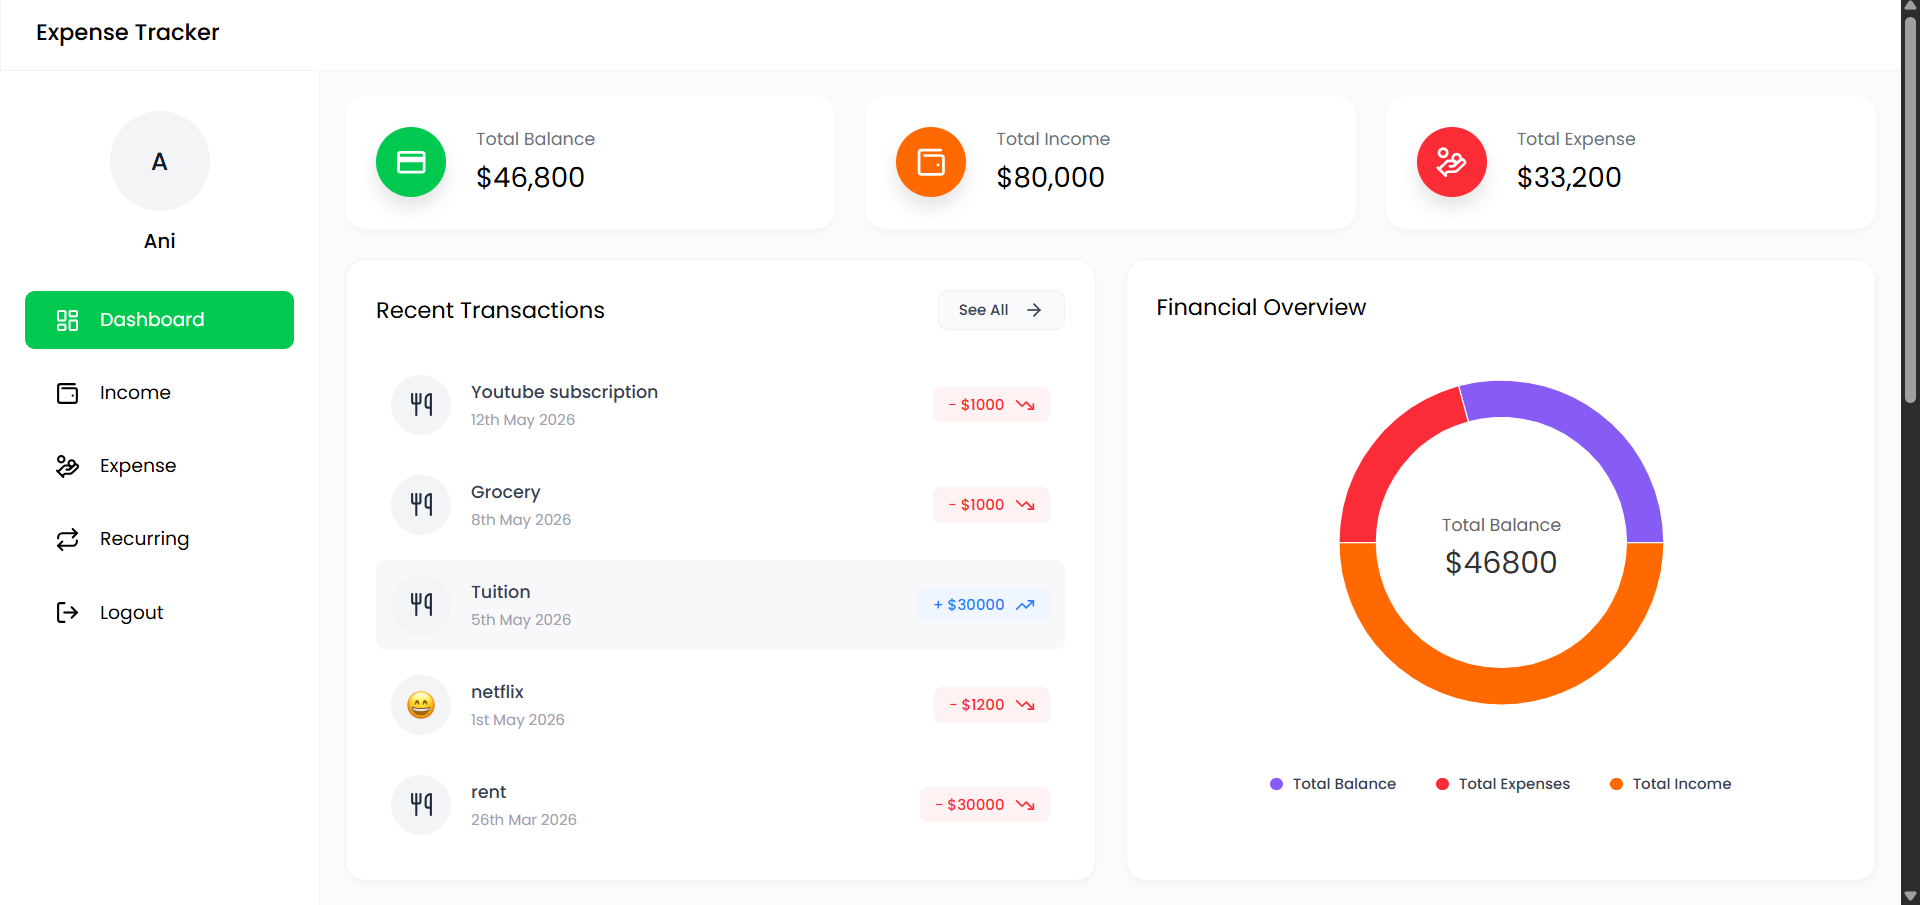
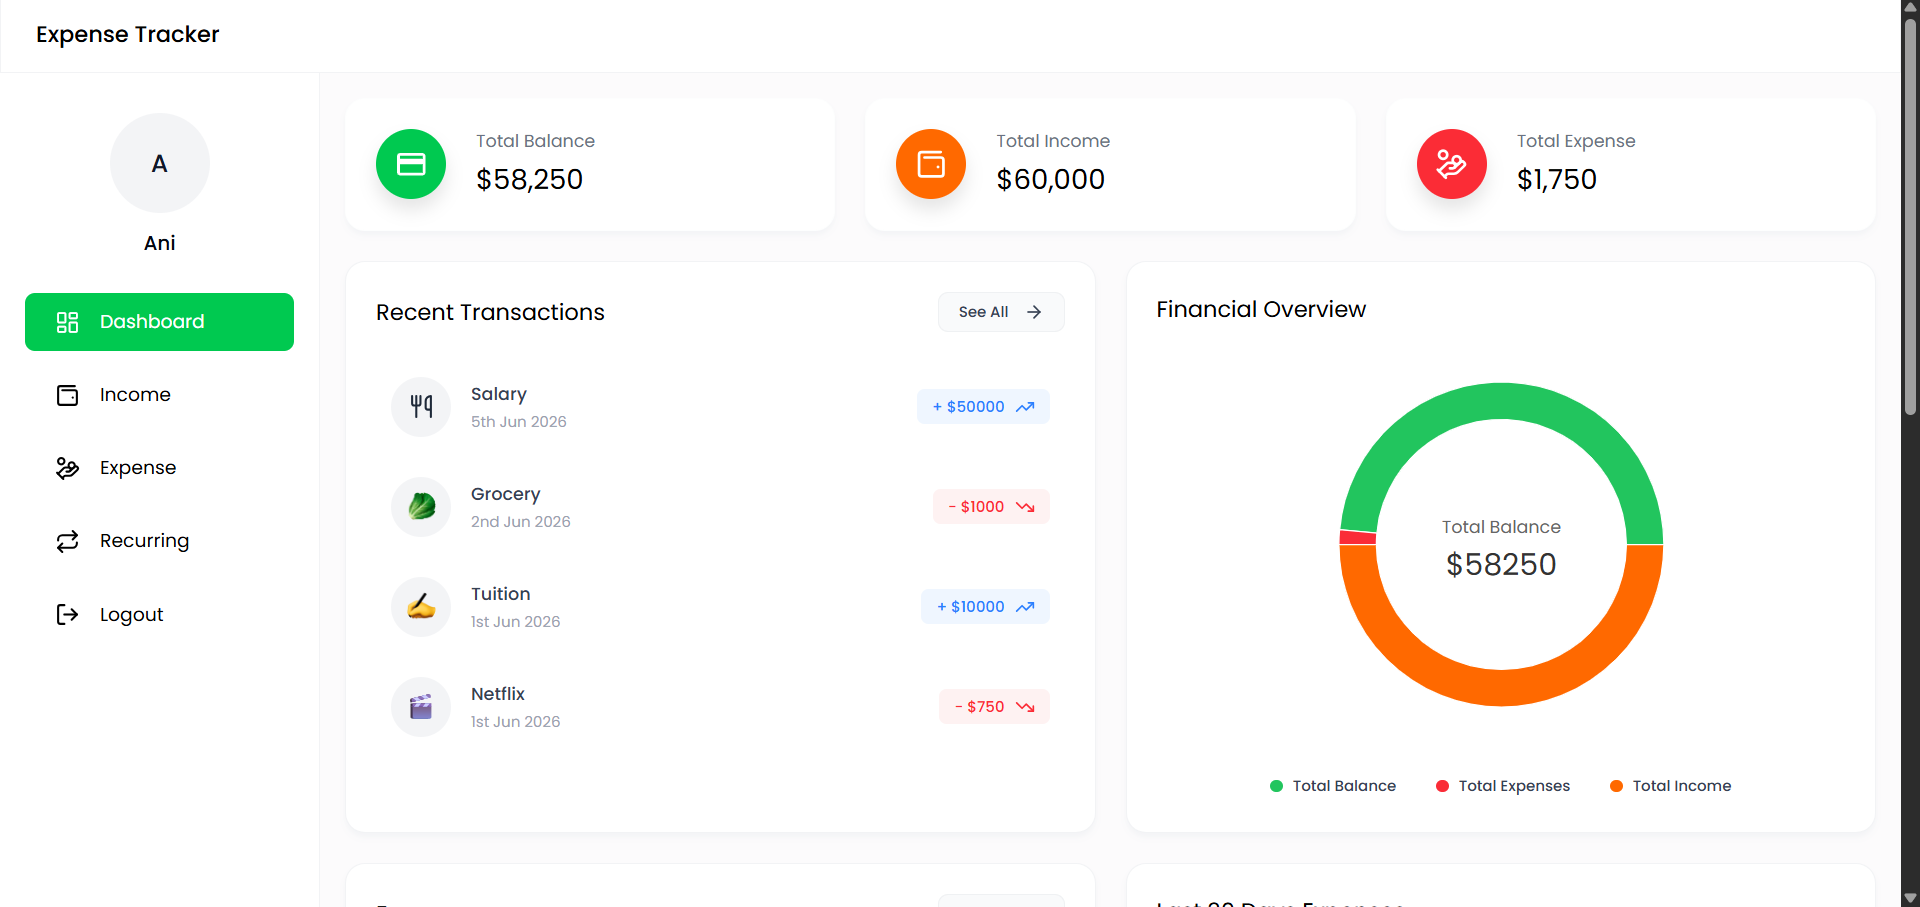
feat: implement CRUD and Excel export controllers for income and expenses, define API paths, and update dashboard overview component.

diff --git a/backend/controllers/recurringController.js b/backend/controllers/recurringController.js
@@ -82,25 +82,25 @@ exports.deleteRecurring = async (req, res) => {
 };
 
 
-exports.processDueRecurring = async (req, res) => {
-  try {
-    const now = new Date();
-    const dueItems = await RecurringTransaction.find({
-      userId: req.user._id,
-      isActive: true,
-      nextDueDate: { $lte: now },
-    });
+const processUserRecurring = async (userId) => {
+  const now = new Date();
+  const dueItems = await RecurringTransaction.find({
+    userId,
+    isActive: true,
+    nextDueDate: { $lte: now },
+  });
 
-    const created = [];
+  const created = [];
 
-    for (const item of dueItems) {
+  for (const item of dueItems) {
+    while (item.nextDueDate <= now) {
       if (item.type === "expense") {
         const entry = await Expense.create({
           userId: item.userId,
           icon: item.icon,
           category: item.category || item.title,
           amount: item.amount,
-          date: item.nextDueDate,
+          date: new Date(item.nextDueDate),
         });
         created.push({ type: "expense", entry });
       } else {
@@ -109,17 +109,25 @@ exports.processDueRecurring = async (req, res) => {
           icon: item.icon,
           source: item.source || item.title,
           amount: item.amount,
-          date: item.nextDueDate,
+          date: new Date(item.nextDueDate),
         });
         created.push({ type: "income", entry });
       }
 
-
       item.lastProcessed = item.nextDueDate;
       item.nextDueDate = computeNextDue(item.nextDueDate, item.frequency);
-      await item.save();
     }
+    await item.save();
+  }
 
+  return created;
+};
+
+exports.processUserRecurring = processUserRecurring;
+
+exports.processDueRecurring = async (req, res) => {
+  try {
+    const created = await processUserRecurring(req.user._id);
     res.status(200).json({ processed: created.length, entries: created });
   } catch (error) {
     console.error("PROCESS RECURRING ERROR:", error);

diff --git a/frontend/expense-tracker/src/components/Dashboard/FinanceOverview.jsx b/frontend/expense-tracker/src/components/Dashboard/FinanceOverview.jsx
@@ -1,25 +1,27 @@
-import React from 'react'
-import CustomPieChart from '../Charts/CustomPieChart';
+import React from "react";
+import CustomPieChart from "../Charts/CustomPieChart";
 
-const COLORS=["#875CF5", "#FA2C37", "#FF6900"];
+const COLORS = ["#22C55E", "#FA2C37", "#FF6900"];
 const FinanceOverview = ({ totalBalance, totalIncome, totalExpense }) => {
-    const balanceData=[
-        {name: "Total Balance", amount: totalBalance},
-        {name: "Total Expenses", amount: totalExpense},
-        {name: "Total Income", amount: totalIncome},
-    ];
-  return <div className='card'>
-    <div className='flex items-center justify-between'>
-        <h5 className='text-lg'>Financial Overview</h5>
-    </div>
-    <CustomPieChart
+  const balanceData = [
+    { name: "Total Balance", amount: totalBalance },
+    { name: "Total Expenses", amount: totalExpense },
+    { name: "Total Income", amount: totalIncome },
+  ];
+  return (
+    <div className="card">
+      <div className="flex items-center justify-between">
+        <h5 className="text-lg">Financial Overview</h5>
+      </div>
+      <CustomPieChart
         data={balanceData}
         label="Total Balance"
         totalAmount={`$${totalBalance}`}
         colors={COLORS}
         showTextAnchor
-    />
-  </div>
-}
+      />
+    </div>
+  );
+};
 
-export default FinanceOverview
+export default FinanceOverview;

diff --git a/backend/controllers/dashboardController.js b/backend/controllers/dashboardController.js
@@ -1,9 +1,12 @@
 const Income=require("../models/Income");
 const Expense=require("../models/Expense");
 const { isValidObjectId, Types }=require("mongoose");
+const { processUserRecurring } = require("./recurringController");
+
 exports.getDashboardData=async (req, res)=> {
     try {
         const userId=req.user.id;
+        await processUserRecurring(userId);
         const userObjectId=new Types.ObjectId(String(userId)); 
         const totalIncome=await Income.aggregate([
             { $match: { userId: userObjectId }},

diff --git a/backend/controllers/expenseController.js b/backend/controllers/expenseController.js
@@ -1,5 +1,6 @@
 const xlsx = require("xlsx");
 const Expense = require("../models/Expense");
+const { processUserRecurring } = require("./recurringController");
 
 exports.addExpense = async (req, res) => {
   try {
@@ -26,6 +27,7 @@ exports.addExpense = async (req, res) => {
 
 exports.getAllExpense = async (req, res) => {
   try {
+    await processUserRecurring(req.user._id);
     const { search, category, startDate, endDate, minAmount, maxAmount } = req.query;
     const filter = { userId: req.user._id };
 

diff --git a/backend/controllers/incomeController.js b/backend/controllers/incomeController.js
@@ -1,5 +1,6 @@
 const xlsx = require("xlsx");
 const Income = require("../models/Income");
+const { processUserRecurring } = require("./recurringController");
 
 exports.addIncome = async (req, res) => {
   try {
@@ -26,6 +27,7 @@ exports.addIncome = async (req, res) => {
 
 exports.getAllIncome = async (req, res) => {
   try {
+    await processUserRecurring(req.user._id);
     const { search, startDate, endDate, minAmount, maxAmount } = req.query;
     const filter = { userId: req.user._id };
 

diff --git a/README.md b/README.md
@@ -7,13 +7,12 @@ A full-stack **MERN** web application to track your income and expenses, visuali
 ## 🖥️ App Preview
 
 |                            Login                            |                         Dashboard                          |
-| :---------------------------------------------------------: | :---------------------------------------------------------: |
+| :---------------------------------------------------------: | :--------------------------------------------------------: |
 | <img src="./assets/ss1.png" alt="Login Page" width="400" /> | <img src="./assets/ss2.png" alt="Dashboard" width="400" /> |
 
-|                         Income Page                          |                       Expense Page                       |
-| :---------------------------------------------------------------: | :---------------------------------------------------------------: |
+|                         Income Page                          |                         Expense Page                          |
+| :----------------------------------------------------------: | :-----------------------------------------------------------: |
 | <img src="./assets/ss3.png" alt="Income Page" width="400" /> | <img src="./assets/ss4.png" alt="Expense Page" width="400" /> |
-
 
 ---
 
@@ -35,23 +34,23 @@ A full-stack **MERN** web application to track your income and expenses, visuali
 
 ## 🛠️ Tech Stack
 
-### Frontend
+### 🎨 Frontend
 
-| Technology          | Purpose                       |
-| ------------------- | ----------------------------- |
-| React 19            | UI framework                  |
-| Vite                | Build tool & dev server       |
-| Tailwind CSS v4     | Styling                       |
-| React Router DOM v7 | Client-side routing           |
-| Recharts            | Data visualization            |
-| Tesseract.js        | OCR engine for receipt scan   |
-| Axios               | HTTP client                   |
-| React Hot Toast     | Toast notifications           |
-| React Icons         | Icon library                  |
-| Moment.js           | Date formatting               |
-| Emoji Picker React  | Emoji selection for entries   |
+| Technology          | Purpose                     |
+| ------------------- | --------------------------- |
+| React 19            | UI framework                |
+| Vite                | Build tool & dev server     |
+| Tailwind CSS v4     | Styling                     |
+| React Router DOM v7 | Client-side routing         |
+| Recharts            | Data visualization          |
+| Tesseract.js        | OCR engine for receipt scan |
+| Axios               | HTTP client                 |
+| React Hot Toast     | Toast notifications         |
+| React Icons         | Icon library                |
+| Moment.js           | Date formatting             |
+| Emoji Picker React  | Emoji selection for entries |
 
-### Backend
+### ⚙️ Backend
 
 | Technology           | Purpose                 |
 | -------------------- | ----------------------- |
@@ -112,4 +111,3 @@ Expense Tracker/
             ├── App.jsx
             └── main.jsx
 ```
-